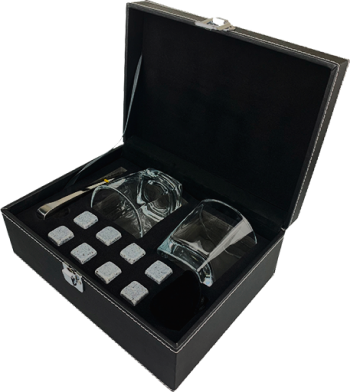
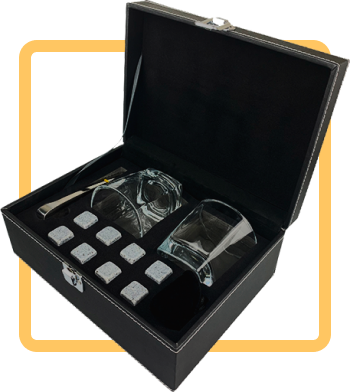
закончил блок преимущества

diff --git a/_advantage.html b/_advantage.html
@@ -1,9 +1,26 @@
-<div class="container">
-    <div class="advantage">
-        <h2>Преимущества камней для виски</h2>
-        <p><i class="fas fa-dice-one"></i>не тают и не растворяются в отличии от льда</p>
-        <p><i class="fas fa-dice-two"></i>не разбавляют и не понижают градус виски</p>
-        <p><i class="fas fa-dice-three"></i>охлаждают напиток до идеальной температуры</p>
-        <p><i class="fas fa-dice-four"></i>дают почувствовать настоящий вкус и аромат</p>
+<div class="wrapper_advantage">
+    <div class="container">
+        <div class="advantage">
+            <h2>Преимущества камней для виски</h2>
+            <ul class="advantage_list">
+                <li class="advantage_item">
+                    <i class="fas fa-dice-one"></i>
+                    <span>не тают и не растворяются в отличии от льда</span>
+                </li>
+                <li class="advantage_item">
+                    <i class="fas fa-dice-two"></i>
+                    <span>не разбавляют и не понижают градус виски</span>
+                </li>
+                <li class="advantage_item">
+                    <i class="fas fa-dice-three"></i>
+                    <span>охлаждают напиток до идеальной температуры</span>
+                </li>
+                <li class="advantage_item">
+                    <i class="fas fa-dice-four"></i>
+                    <span>дают почувствовать настоящий вкус и аромат</span>
+                </li>
+            </ul>
+
+        </div>
     </div>
 </div>

diff --git a/scss/style.scss b/scss/style.scss
@@ -37,6 +37,11 @@ input {
     outline: none;
 }
 
+ul {
+    margin: 0;
+    padding: 0;
+}
+
 .container {
     max-width: 1140px;
     width: 100%;
@@ -194,8 +199,33 @@ input {
     font-size: 130px;
 }
 
+//advantage
+.wrapper_advantage {
+    background: url(../img/3qubes1.svg), url(../img/3qubes2.svg);
+    background-color: #FFBF50;
+    background-position: 10% -35px, 90% 48px;
+    background-repeat: no-repeat;
+}
+
+.wrapper_advantage .container {
+    display: flex;
+    justify-content: center;
+}
+
+.advantage {
+    padding-top: 50px;
+    padding-bottom: 50px;
+}
+
+.advantage_item {
+    display: flex;
+    align-items: center;
+    margin-top: 25px;
+}
+
 .advantage .fas {
     font-size: 24px;
+    margin-right: 12px;
 }
 
 .catalog_items {
